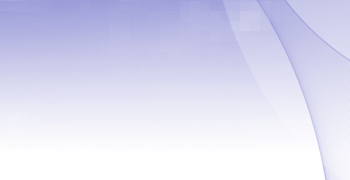
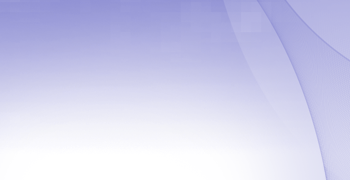
Splash panel mods for new image

Changed region(s): [[0.7714, 0.0278, 1.0, 1.0], [0.6857, 0.0556, 0.7429, 0.0833]]

diff --git a/src/org/underworldlabs/swing/SplashPanel.java b/src/org/underworldlabs/swing/SplashPanel.java
@@ -35,6 +35,7 @@ import java.awt.Image;
 import java.awt.MediaTracker;
 import java.awt.RenderingHints;
 import java.awt.Window;
+
 import org.underworldlabs.swing.plaf.UIUtils;
 
 /** 
@@ -71,10 +72,10 @@ public class SplashPanel extends Canvas {
     private String version;
     
     /** The progress bar's colour */
-    private Color progressColour;
+    private final Color progressColour;
 
     /** the light gradient colour */
-    private Color gradientColour;
+    private final Color gradientColour;
     
     /** the x-coord of the version string */
     private int versionLabelX;
@@ -83,21 +84,36 @@ public class SplashPanel extends Canvas {
     private int versionLabelY;
     
     /** The progress bar height */
-    private int PROGRESS_HEIGHT = 20;
+    private static final int PROGRESS_HEIGHT = 15;
+
+    private final Color versionTextColour;
     
     /** Creates a new instance of the splash panel. */
     public SplashPanel(Color progressBarColour, 
                        String imageResourcePath,
                        String versionNumber) {
+
         this(progressBarColour, imageResourcePath, versionNumber, -1, -1);
     }
-    
+
+    public SplashPanel(Color progressBarColour, 
+                        String imageResourcePath,
+                        String versionNumber,
+                        int versionLabelX,
+                        int versionLabelY) {
+
+        this(progressBarColour, imageResourcePath, versionNumber, 
+                Color.WHITE, versionLabelX, versionLabelY);
+    }
+
     public SplashPanel(Color progressBarColour, 
                        String imageResourcePath,
                        String versionNumber,
+                       Color versionTextColour,
                        int versionLabelX,
                        int versionLabelY) {
 
+        this.versionTextColour = versionTextColour;
         this.versionLabelX = versionLabelX;
         this.versionLabelY = versionLabelY;
         
@@ -105,7 +121,7 @@ public class SplashPanel extends Canvas {
         setCursor(Cursor.getPredefinedCursor(Cursor.WAIT_CURSOR));
         setBackground(Color.white);
         
-        gradientColour = UIUtils.getBrighter(progressBarColour, 0.65);
+        gradientColour = UIUtils.getBrighter(progressBarColour, 0.75);
         
         //Font font = new Font("Dialog", Font.BOLD, 15);
         Font font = new Font("Dialog", Font.PLAIN, 11);
@@ -113,7 +129,7 @@ public class SplashPanel extends Canvas {
         fontMetrics = getFontMetrics(font);
         
         image = getToolkit().getImage(getClass().getResource(imageResourcePath));
-        
+
         MediaTracker tracker = new MediaTracker(this);
         tracker.addImage(image, 0);
 
@@ -124,43 +140,50 @@ public class SplashPanel extends Canvas {
         }
 
         try {
+
             tracker.waitForAll();
+
         } catch(Exception e) {
+        
             e.printStackTrace();
         }
         
         window = new Window(new Frame());
         
         Dimension screen = getToolkit().getScreenSize();
-        Dimension size = new Dimension(image.getWidth(this),
-        image.getHeight(this));
+        Dimension size = new Dimension(image.getWidth(this), image.getHeight(this));
         window.setSize(size);
         
         window.setLayout(new BorderLayout());
         window.add(BorderLayout.CENTER, this);
+
+        window.setLocation((screen.width - size.width) / 2, 
+                (screen.height - size.height) / 2);
         
-        window.setLocation((screen.width - size.width) / 2,
-        (screen.height - size.height) / 2);
+        // window.setLocation(500, 300);
+        
         window.validate();
         window.setVisible(true);
-
     }
 
     public synchronized void advance() {
+
         progress++;
         repaint();
         
         // wait for it to be painted to ensure
         // progress is updated continuously
+
         try {
+
             wait();
-        } catch(InterruptedException ie) {
-            ie.printStackTrace();
-        }
+
+        } catch (InterruptedException ie) {}
         
     }
     
     public synchronized void paint(Graphics g) {
+
         Dimension size = getSize();
 
         if(offscreenImg == null) {
@@ -195,10 +218,12 @@ public class SplashPanel extends Canvas {
         if (version != null) {
             
             if (versionLabelX == -1) {
+
                 versionLabelX = (getWidth() - fontMetrics.stringWidth(version)) / 2;
             }
 
             if (versionLabelY == -1) {
+
                 // if no y value - set just above progress bar
                 versionLabelY = image.getHeight(this) - PROGRESS_HEIGHT - fontMetrics.getHeight();
             }
@@ -209,7 +234,7 @@ public class SplashPanel extends Canvas {
             offscreenGfx2d.setRenderingHint(RenderingHints.KEY_RENDERING,
                     RenderingHints.VALUE_RENDER_QUALITY);
 
-            offscreenGfx.setColor(Color.WHITE);
+            offscreenGfx.setColor(versionTextColour);
             offscreenGfx.drawString(version,
                                     versionLabelX, 
                                     versionLabelY);
@@ -221,19 +246,21 @@ public class SplashPanel extends Canvas {
     }
 
     public void dispose() {
+        
         // wait a moment
         try {
+        
             Thread.sleep(600);
-//            Thread.sleep(90000);
+            //Thread.sleep(90000);
+
         } catch (Exception e) {}
+
         window.dispose();
     }
     
     public void update(Graphics g) {
+
         paint(g);
     }
     
 }
-
-
-

diff --git a/src/org/executequery/ApplicationLauncher.java b/src/org/executequery/ApplicationLauncher.java
@@ -331,11 +331,17 @@ public class ApplicationLauncher {
     private SplashPanel createSplashPanel() {
 
         return new SplashPanel(
-                progressBarColour(),
-                "/org/executequery/images/SplashImage.png",
-                versionString(), 
-                5, 15);
-                //345, 225);
+                        progressBarColour(),
+                        "/org/executequery/images/SplashImage.png",
+                        versionString(),
+                        versionTextColour(),
+                        325, 230);
+//        5, 15); // top-left
+    }
+
+    private Color versionTextColour() {
+
+        return new Color(60, 60, 60);
     }
 
     private String versionString() {
@@ -345,7 +351,7 @@ public class ApplicationLauncher {
 
     private Color progressBarColour() {
 
-        return new Color(55, 55, 120);
+        return new Color(120, 120, 180);
     }
     
     public ExecuteQueryFrame createFrame() {
